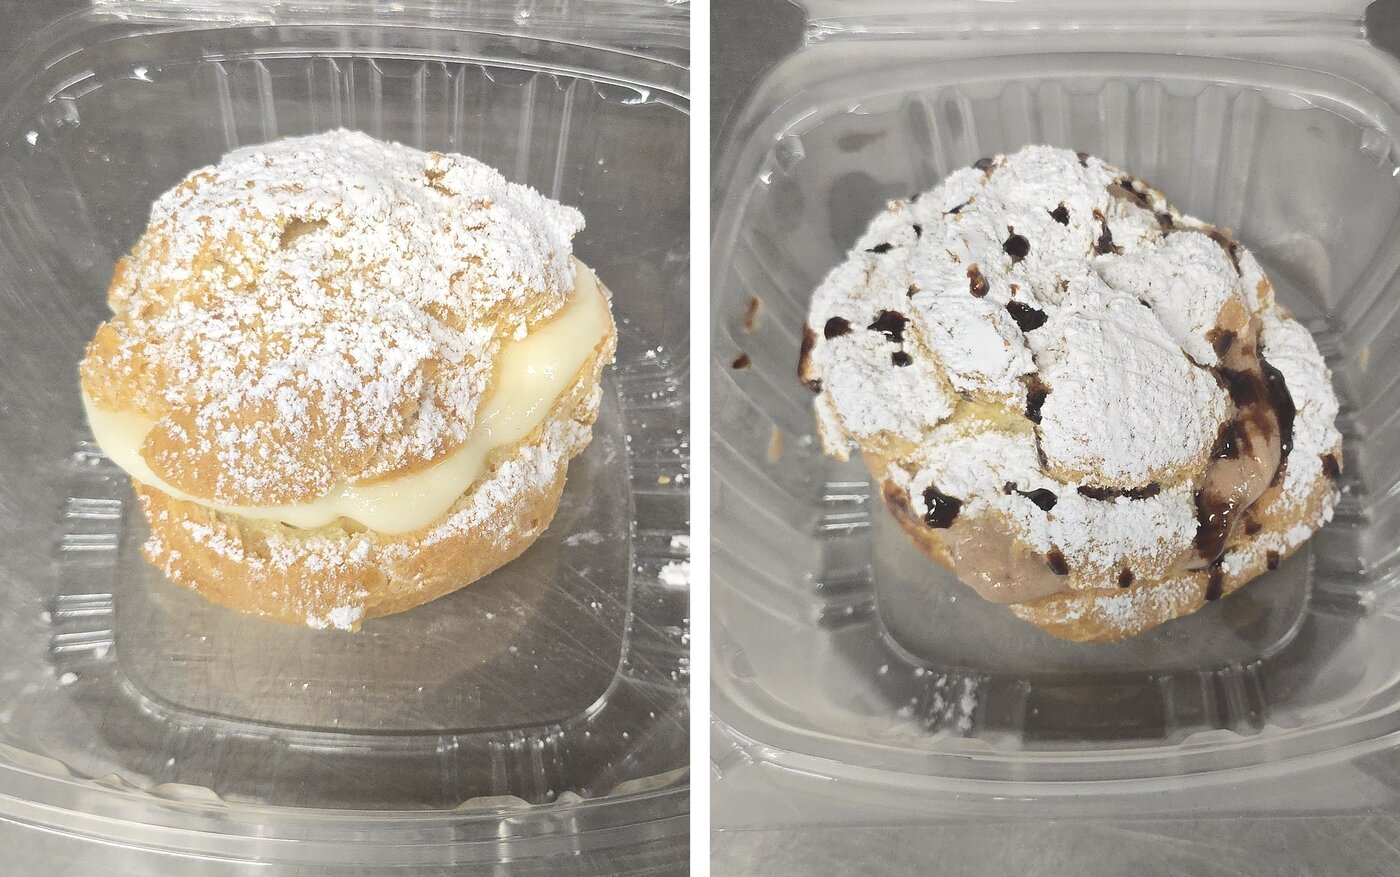
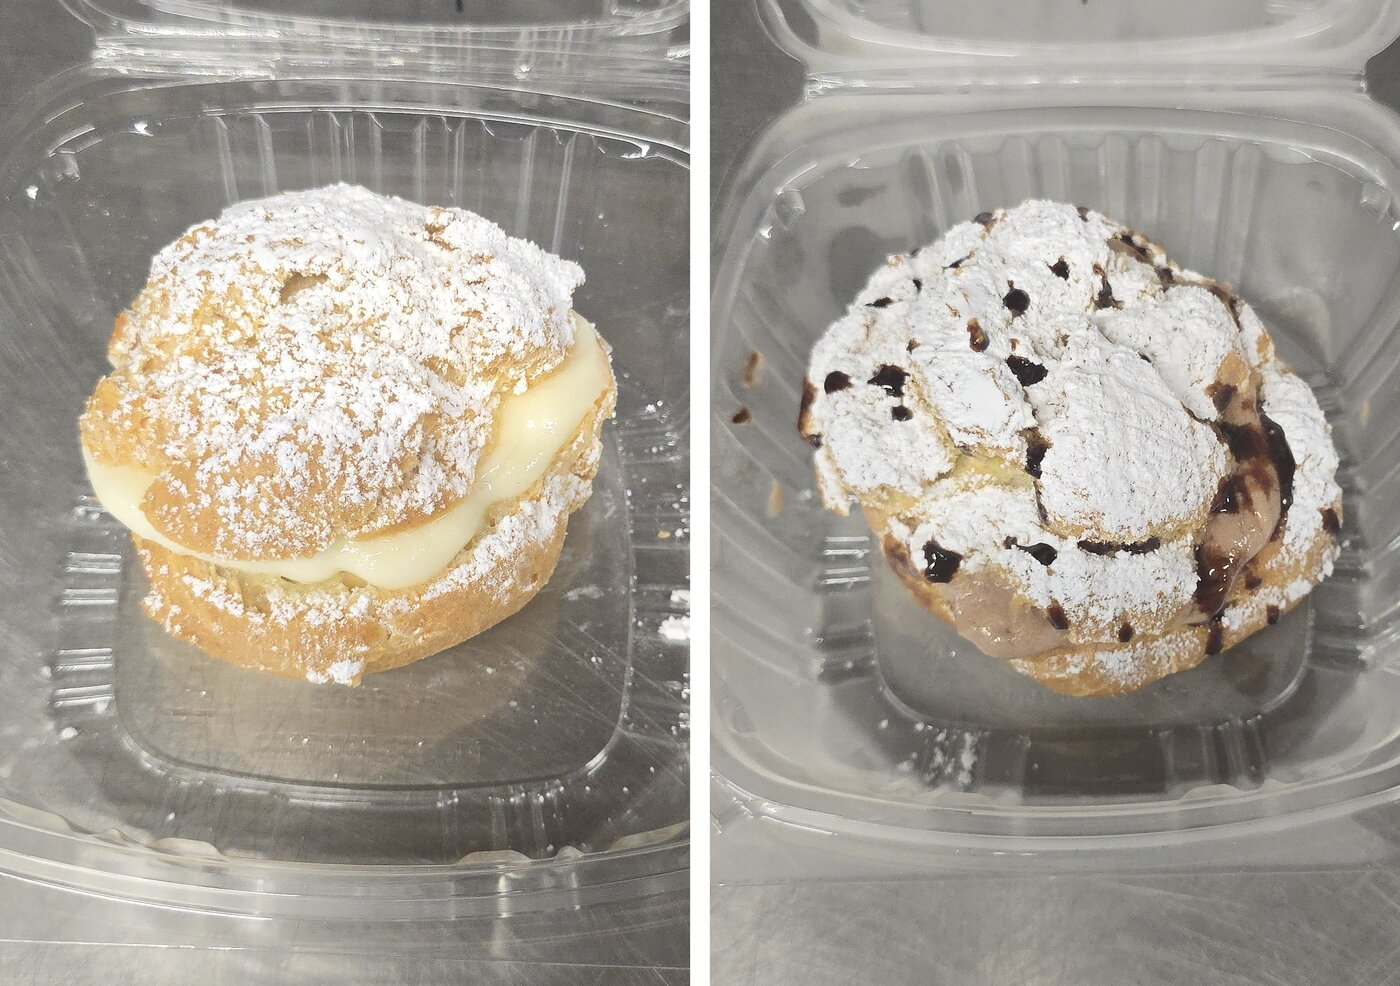
Macho Nachos post drops the rain slogan from the picture (the caption still opens with it): just the plate and the cream puffs, a row each with a bigger photo

diff --git a/src/assets/css/studio/fb-macho-nachos.css b/src/assets/css/studio/fb-macho-nachos.css
@@ -44,77 +44,60 @@
     text-indent: 0.18em;
 }
 
-/* ── The day ──────────────────────────────────────────────── */
+/* ── The plate and the dessert ────────────────────────────── */
 
+/* Two rows that share the height, photo beside the words. */
 .mn-body {
     flex: 1;
     min-height: 0;
-    display: flex;
-    flex-direction: column;
-    align-items: center;
-    padding: 26px 50px 22px;
-}
-
-.mn-headline {
-    text-align: center;
-    line-height: 1.0;
-}
-
-.mn-headline-1 {
-    display: block;
-    font-size: 52px;
-    color: var(--teal);
-}
-
-.mn-headline-2 {
-    display: block;
-    font-size: 96px;
-    color: var(--accent);
-}
-
-.mn-cards {
-    flex: 1;
-    min-height: 0;
-    width: 100%;
     display: grid;
-    grid-template-columns: 1fr 1fr;
-    gap: 28px;
-    margin-top: 24px;
+    grid-template-rows: 1fr 1fr;
+    gap: 30px;
+    padding: 34px 50px 30px;
 }
 
 .mn-card {
-    display: flex;
-    flex-direction: column;
+    display: grid;
+    grid-template-columns: 500px 1fr;
     min-height: 0;
     background: #fff;
     border-radius: 22px;
-    border-top: 8px solid var(--accent);
+    border-left: 10px solid var(--accent);
     box-shadow: 0 8px 22px rgba(31, 69, 82, 0.16);
     overflow: hidden;
 }
 
-/* Both photos the same height, cropped to fill, so they line up across. */
+/* The dessert row puts its photo on the right, so the rows zig-zag. */
+.mn-card--flip {
+    grid-template-columns: 1fr 500px;
+    border-left: 0;
+    border-right: 10px solid var(--accent);
+}
+
+.mn-card--flip .mn-photo {
+    order: 2;
+}
+
+/* Without a photo the words take the whole row. */
+.mn-card:not(:has(.mn-photo)) {
+    grid-template-columns: 1fr;
+}
+
 .mn-photo {
     display: block;
-    flex: 0 0 300px;
-    min-height: 0;
     width: 100%;
+    height: 100%;
+    min-height: 0;
     object-fit: cover;
 }
 
-/* Without a photo the words sit in the middle of the card. */
 .mn-words {
-    flex: 1;
     display: flex;
     flex-direction: column;
     align-items: center;
     justify-content: center;
     text-align: center;
-    padding: 22px 24px 26px;
-}
-
-.mn-photo + .mn-words {
-    flex: 0 0 auto;
+    padding: 20px 24px;
 }
 
 .mn-label {
@@ -124,7 +107,7 @@
 }
 
 .mn-name {
-    font-size: 58px;
+    font-size: 56px;
     line-height: 1.05;
     color: var(--teal-dark);
     margin-top: 8px;
@@ -140,13 +123,6 @@
     font-size: 26px;
     line-height: 1.3;
     margin-top: 14px;
-}
-
-.mn-served {
-    font-size: 26px;
-    color: var(--teal);
-    margin-top: 20px;
-    text-indent: 0.18em;
 }
 
 /* ── Footer band ──────────────────────────────────────────── */
@@ -170,3 +146,11 @@
 }
 
 .dot { opacity: 0.55; margin: 0 0.3em; }
+
+/* When lunch starts, under the plate's words. */
+.mn-served {
+    font-size: 24px;
+    color: var(--teal);
+    margin-top: 14px;
+    text-indent: 0.18em;
+}
